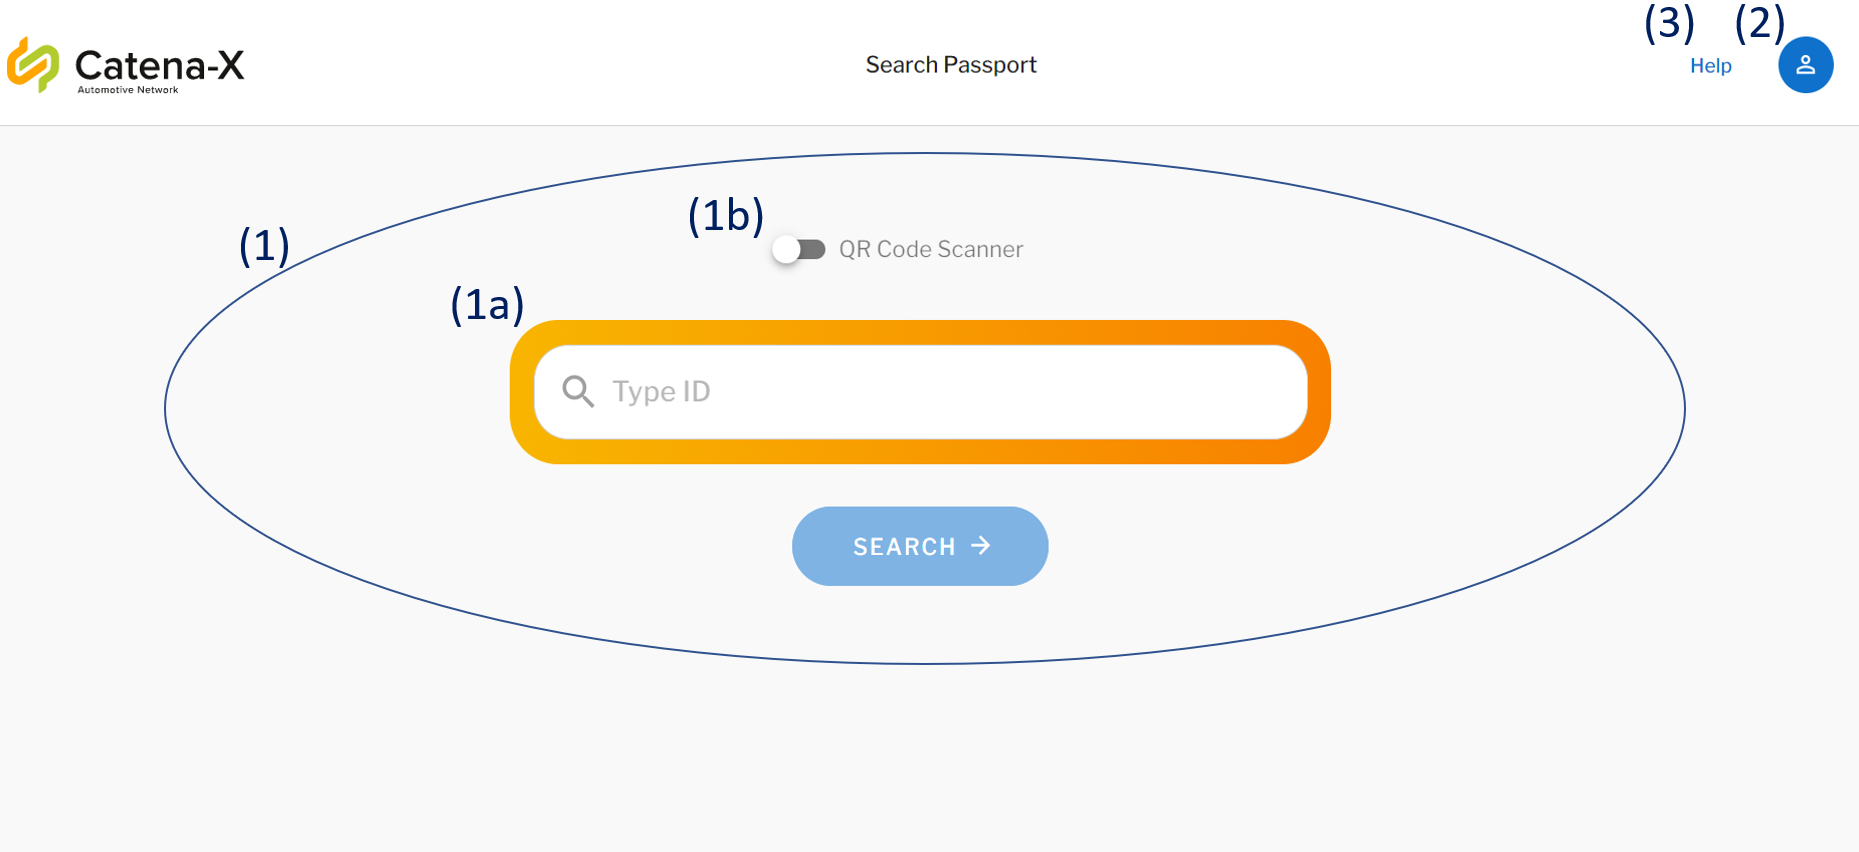
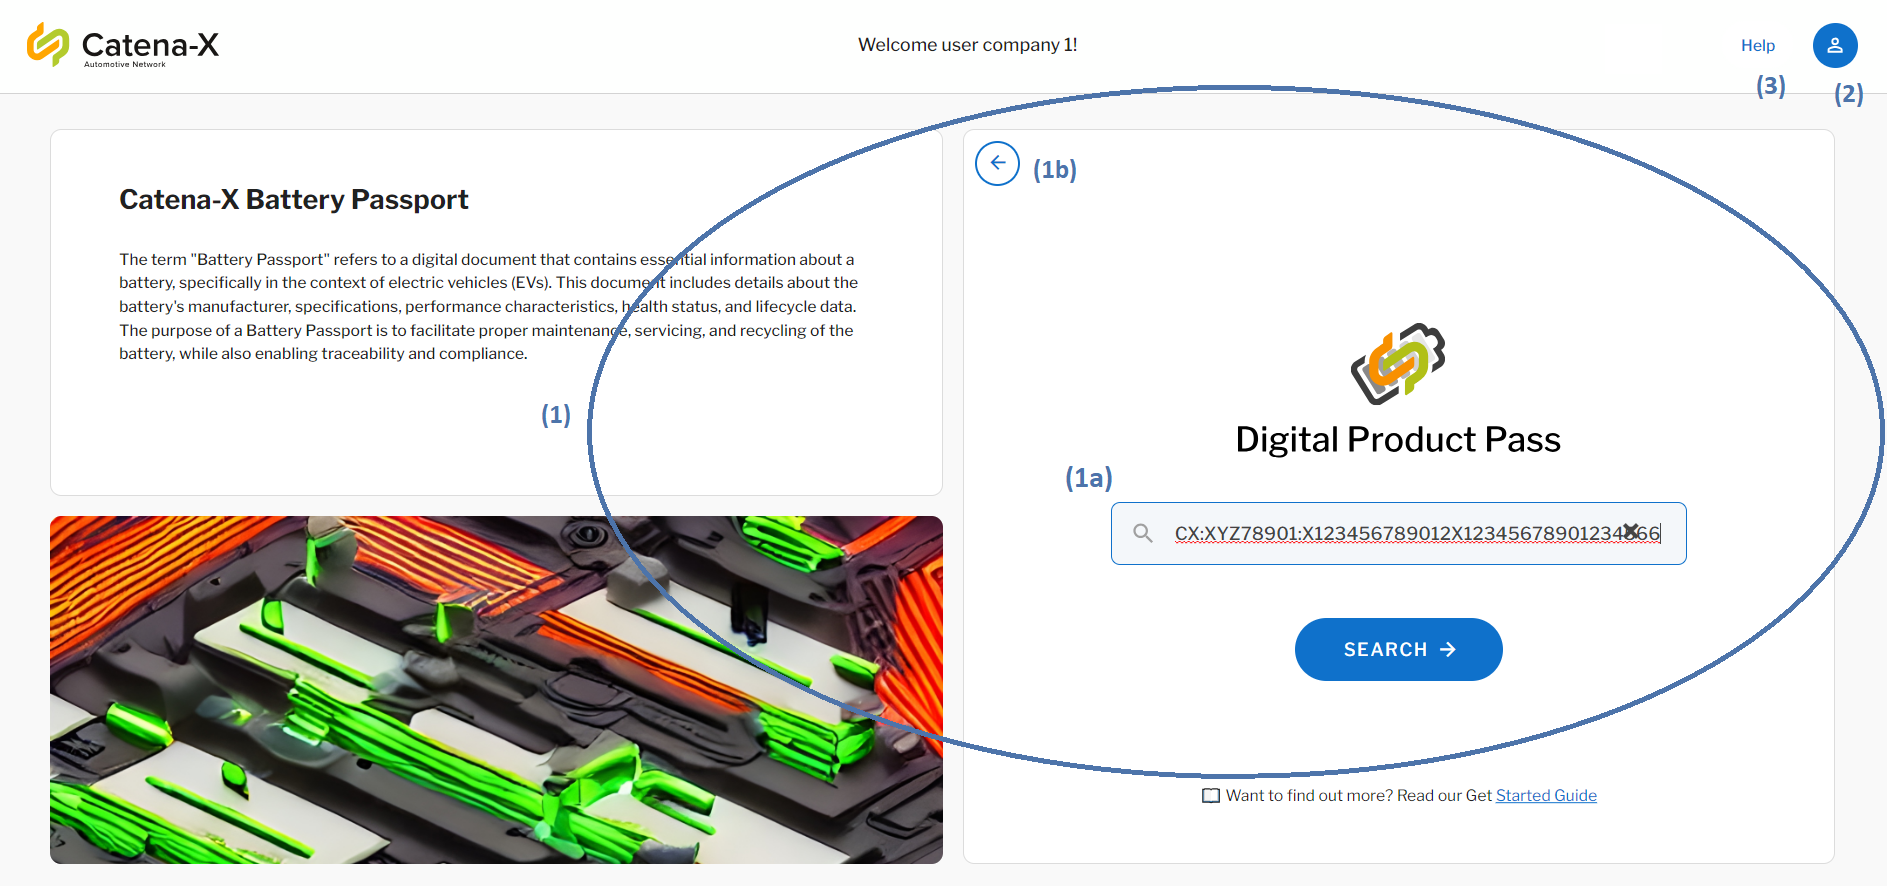
chore: update end user manual

diff --git a/docs/user manual/User Manual Product Viewer App.md b/docs/user manual/User Manual Product Viewer App.md
@@ -35,7 +35,12 @@ The [Main Menu](#main-menu) provides two methods for searching for Product Passp
 1. manually entering a product ID or
 2. scanning the product's QR code.
 
-Both options can be found in the center of the [Main Menu's](#main-menu) screen (1). Whenever you access the [Main Menu](#main-menu), the manual product ID search will be displayed by default (1a). By clicking on the switch above the manual search bar (1b), you activate the QR code scanner and the application will access your devices camera, which you can then capture the QR code with.
+Both options can be found in the center of the [Main Menu's](#main-menu) screen (1). Whenever you access the [Main Menu](#main-menu), the manual product ID search will be displayed by default (1a). The search text contains the pattern separated by the colon(:) `CX:<manufacturerPartId>:<serializedId>` where CX is a prefix, `<manufacturerPartId>` is the part Id of the manufacturer, and `<serializedId>` is the Id of the battery Example: `CX:XYZ78901:X123456789012X12345678901234566`. If the search format is not followed, an error would be displayed.
+
+ By clicking on the switch the back arrow button (1b), you activate the QR code scanner and the application will access your devices camera, which you can then capture the QR code with.
+
+
+![Scan Passport](./scan-passport.png)  
 </br></br>  
 
 ### Settings and Profile Information
